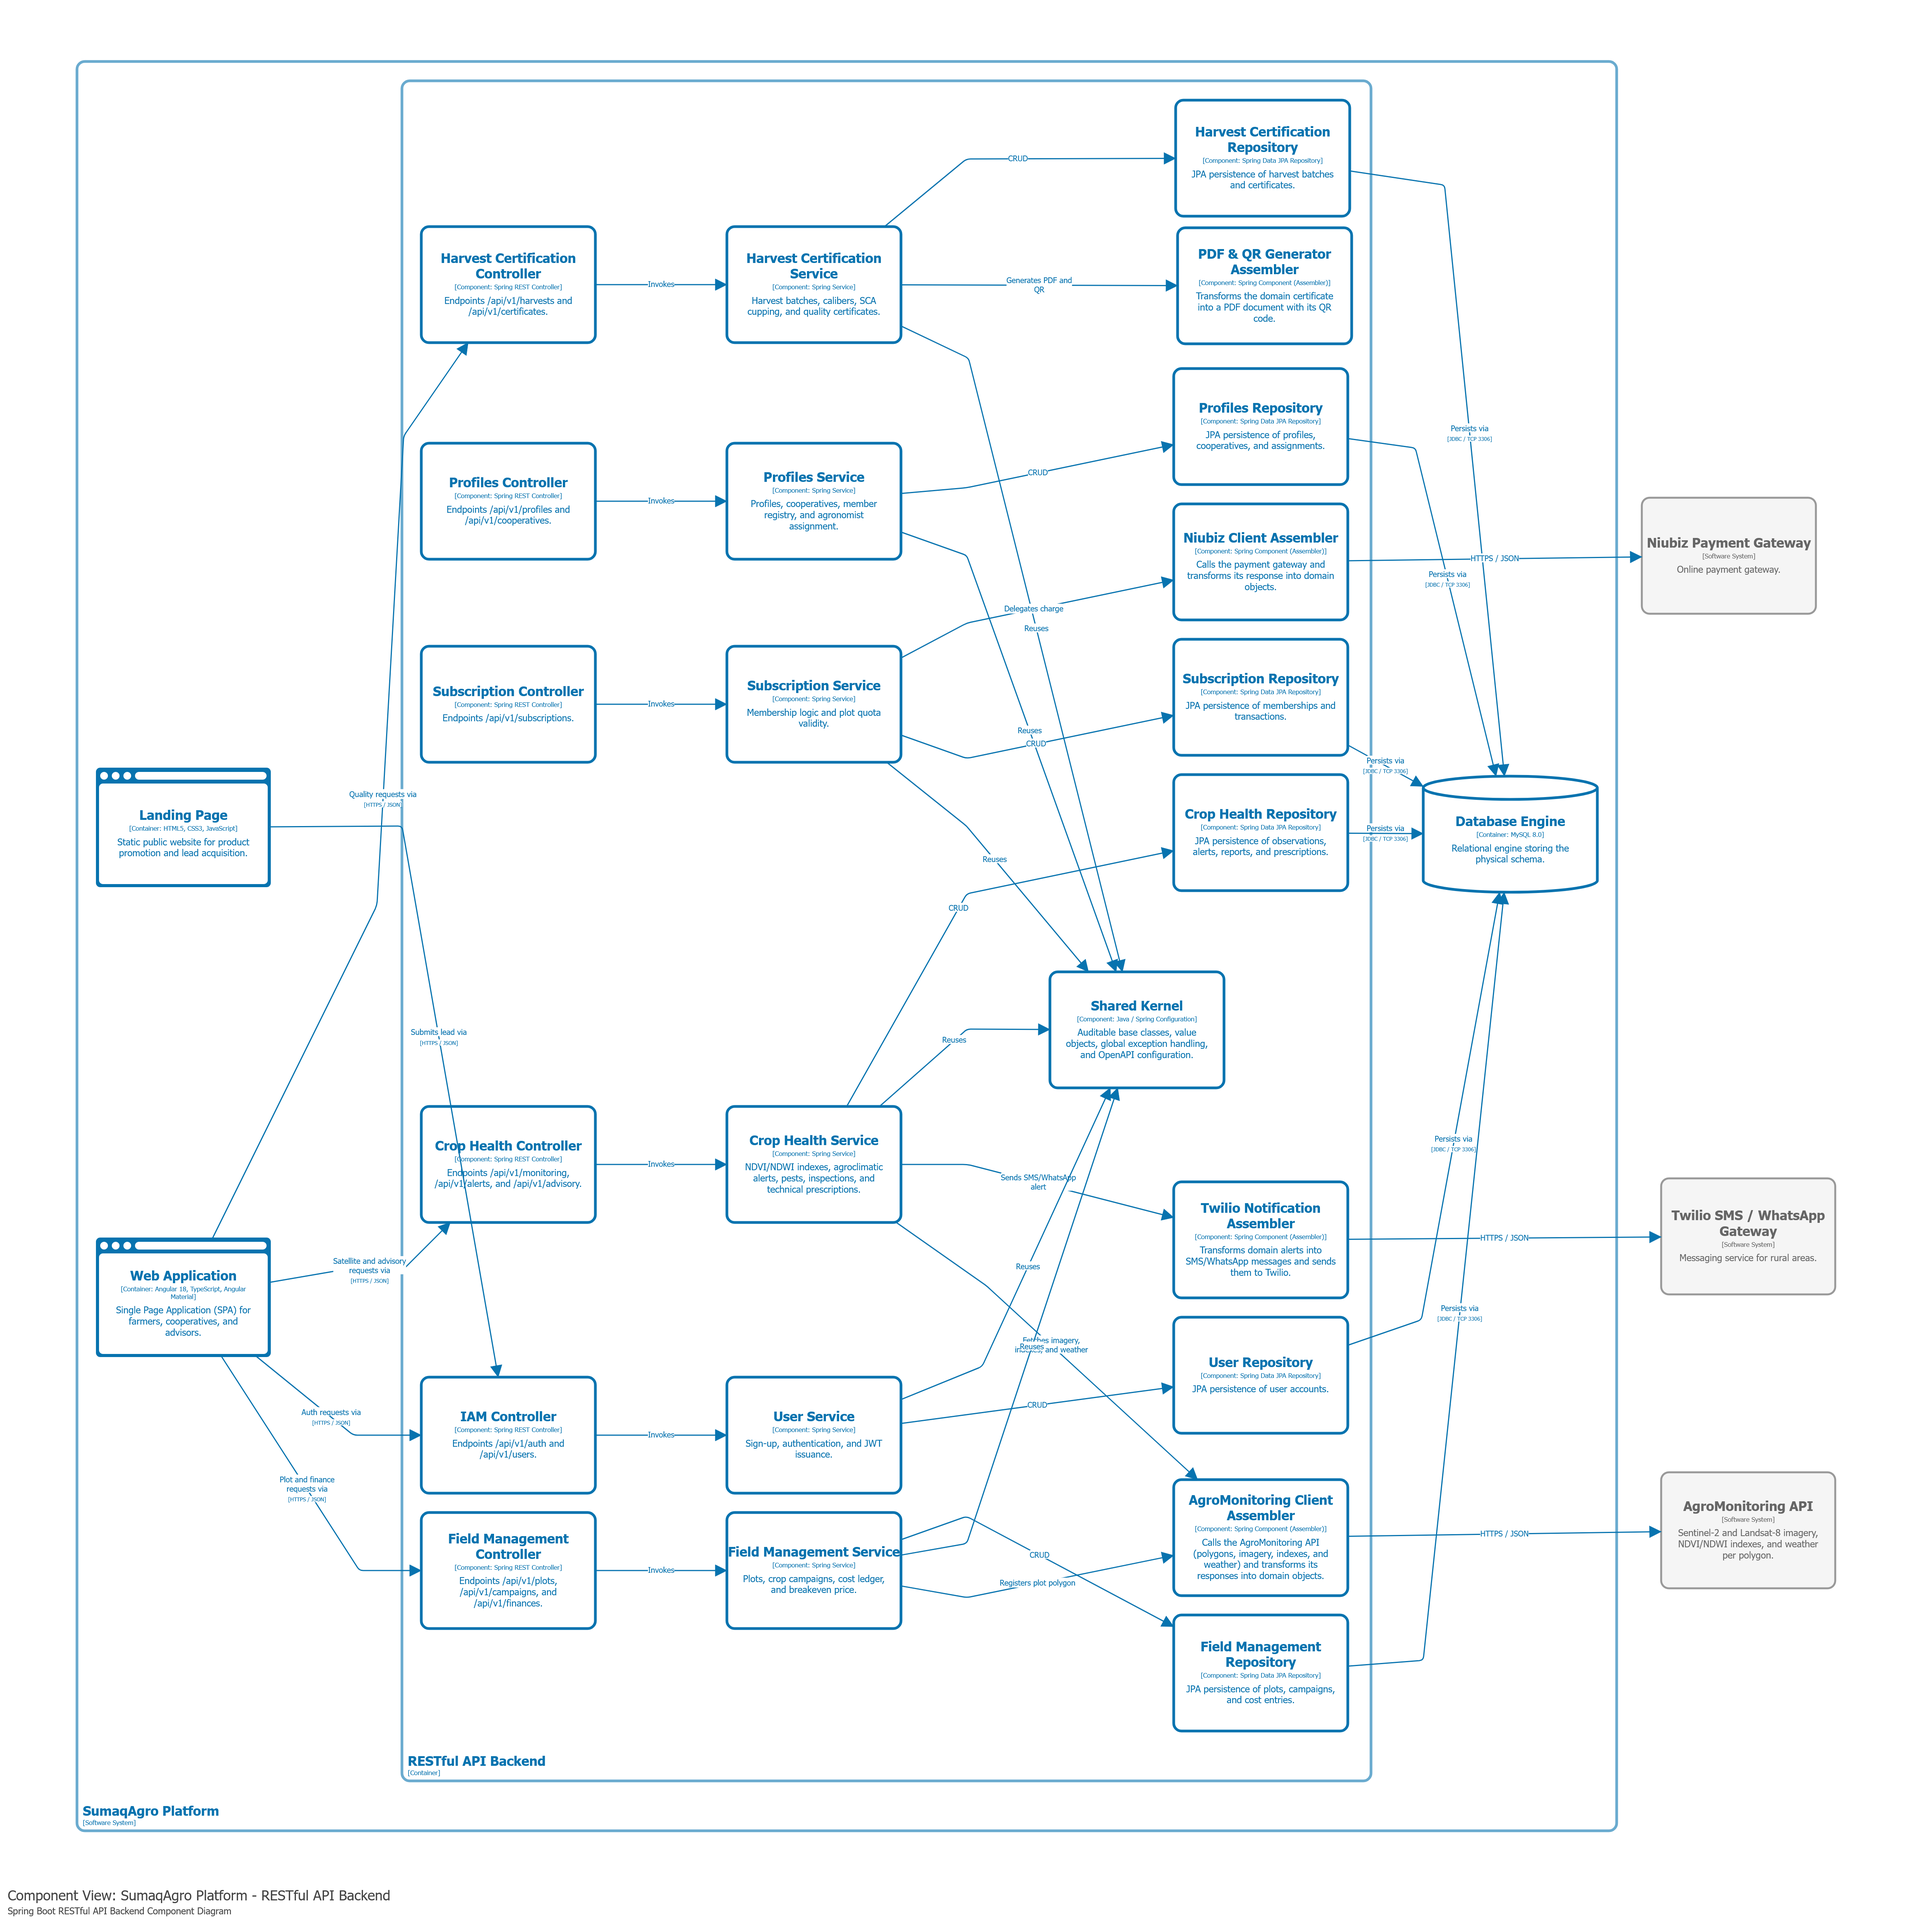
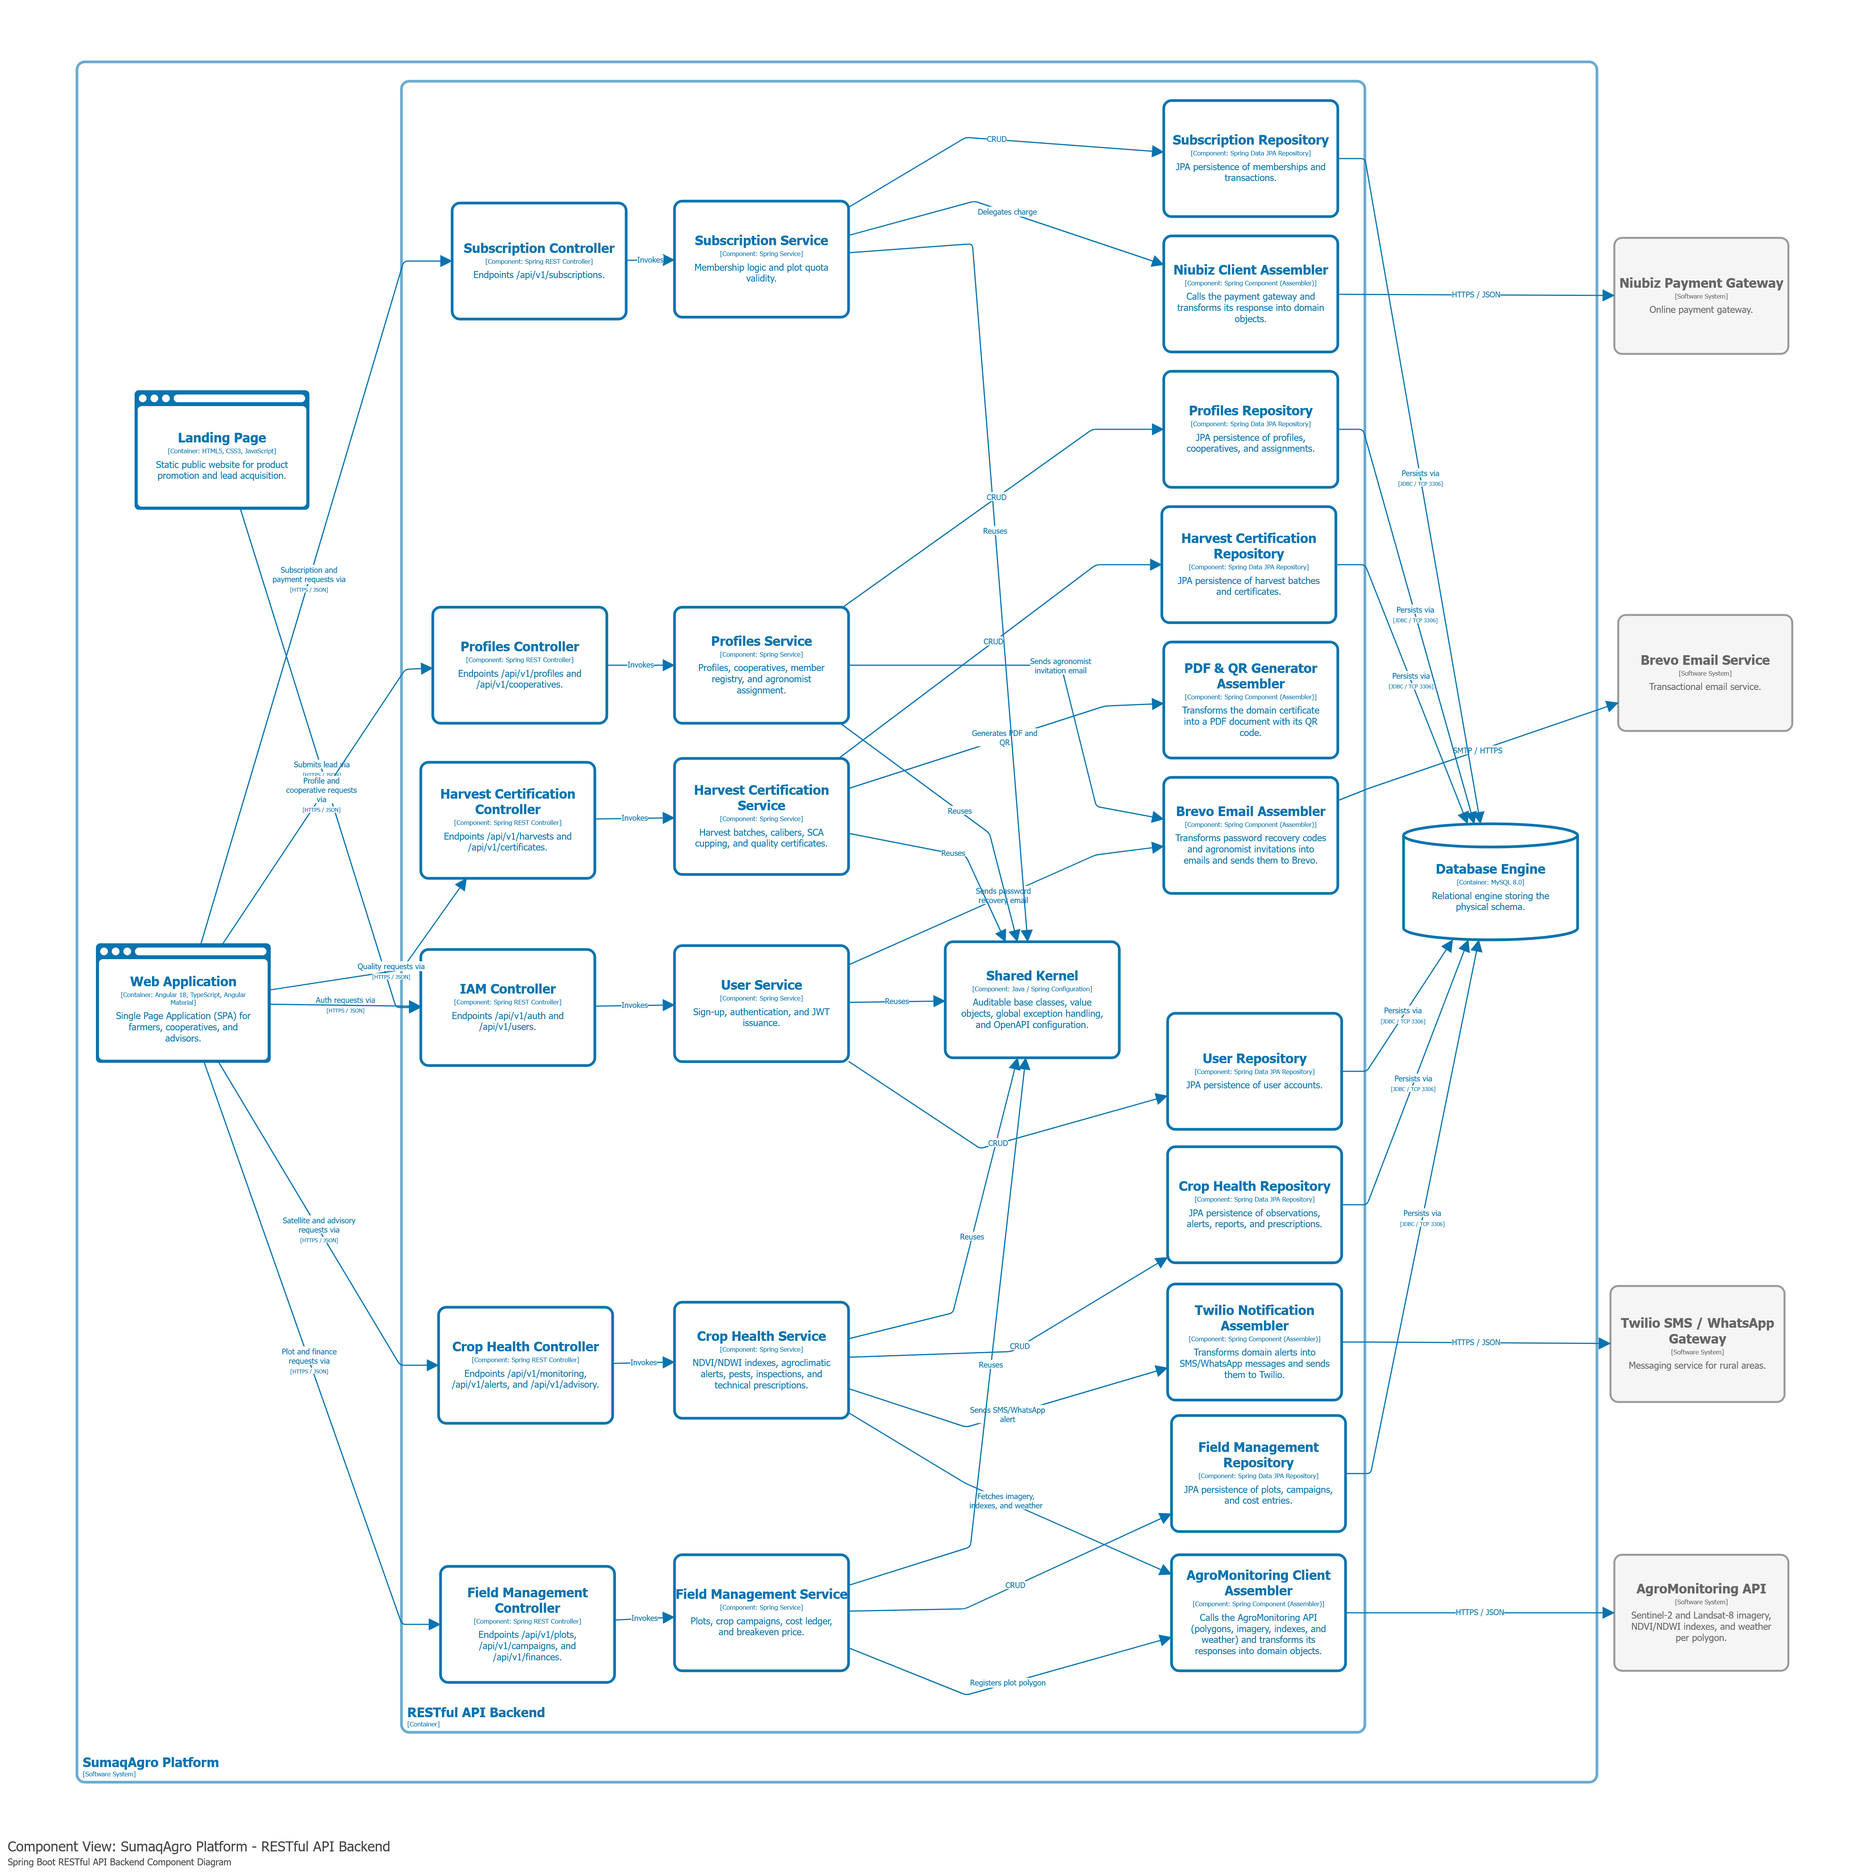
docs(cap4): add brevo email service to c4 diagrams and descriptions

diff --git a/report/40-chapter-4-design.md b/report/40-chapter-4-design.md
@@ -1558,6 +1558,7 @@ El diagrama sitúa en el centro a **SumaqAgro Platform**, plataforma web distrib
 * **AgroMonitoring API:** Servicio de OpenWeather que recibe el polígono de cada parcela y entrega, mediante HTTPS/JSON, las imágenes satelitales de Sentinel-2 y Landsat-8, los índices NDVI y NDWI y el pronóstico del clima. Con esta información el sistema calcula el vigor foliar, detecta estrés hídrico y anticipa heladas sin depender de sensores instalados en campo.
 * **Twilio SMS / WhatsApp Gateway:** Pasarela de mensajería externa utilizada por SumaqAgro para remitir notificaciones prioritarias y alertas agroclimáticas urgentes a productores ubicados en zonas rurales con baja cobertura móvil de datos.
 * **Niubiz Payment Gateway:** Pasarela de procesamiento de pagos electrónicos integrada mediante API REST (HTTPS/JSON) para la gestión y cobro transaccional de los planes de suscripción de cooperativas agrarias y asesores técnicos.
+* **Brevo Email Service:** Servicio de correo transaccional que SumaqAgro usa, mediante SMTP o HTTPS, para enviar el enlace de recuperación de contraseña y la invitación que recibe un agrónomo cuando una cooperativa lo agrega a su equipo.
 
 ---
 
@@ -1590,7 +1591,7 @@ La topología de ejecución del sistema está conformada por cuatro contenedores
 * **Acceso de Usuarios:** Los usuarios finales interactúan con los contenedores web (*Landing Page* y *Web Application*) mediante peticiones seguras sobre el protocolo HTTPS.
 * **Cliente Web a Backend:** La Single Page Application consume la lógica de negocio y envía datos locales sincronizados mediante llamadas asíncronas RESTful sobre HTTPS, transmitiendo datos estructurados en formato JSON protegidos con tokens de autorización Bearer JWT.
 * **Backend a Base de Datos:** Las operaciones transaccionales y de persistencia de los agregados se ejecutan directamente a través de una conexión TCP protegida sobre el puerto 3306 mediante el controlador JDBC de MySQL.
-* **Backend a Servicios Externos:** Las consultas salientes hacia AgroMonitoring API, Twilio Gateway y Niubiz se realizan mediante assemblers desacoplados bajo peticiones seguras HTTPS/JSON.
+* **Backend a Servicios Externos:** Las consultas salientes hacia AgroMonitoring API, Twilio Gateway y Niubiz se realizan mediante assemblers desacoplados bajo peticiones seguras HTTPS/JSON. Los correos de recuperación de contraseña e invitación de agrónomos se envían a Brevo mediante SMTP o HTTPS.
 
 ---
 
@@ -1665,6 +1666,7 @@ El contenedor transaccional de backend, desarrollado en **Java 21 con Spring Boo
   * `NiubizClientAssembler`: Consume la API de Niubiz para el procesamiento de cobros y la facturación recurrente de las suscripciones.
   * `AgroMonitoringClientAssembler`: Registra el polígono de cada parcela en AgroMonitoring y obtiene sus imágenes satelitales, los índices NDVI y NDWI y el pronóstico del clima.
   * `TwilioNotificationAssembler`: Invoca la API de Twilio para remitir notificaciones prioritarias de emergencia vía SMS y WhatsApp.
+  * `BrevoEmailAssembler`: Arma los correos de recuperación de contraseña (usados por `UserService`) y de invitación de agrónomos (usados por `ProfilesService`) y los envía a través de Brevo.
   * `PdfQrGeneratorAssembler`: Compila dinámicamente los certificados de calidad en formato PDF y codifica el código QR de verificación pública.
 
 * **Shared Kernel:**
